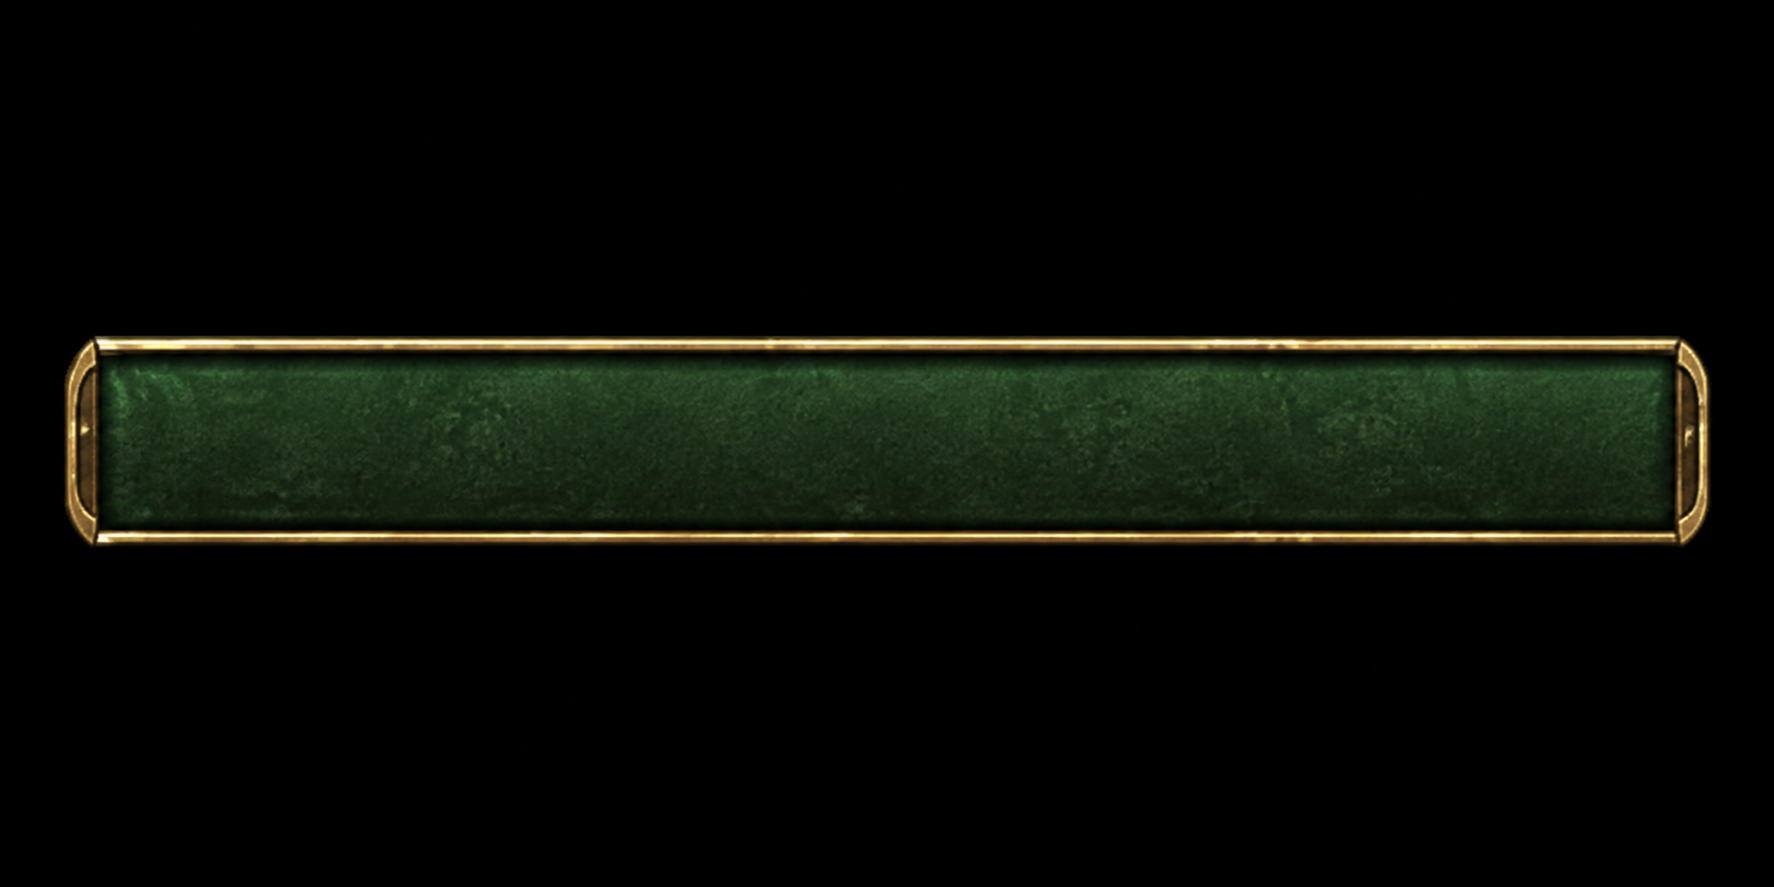
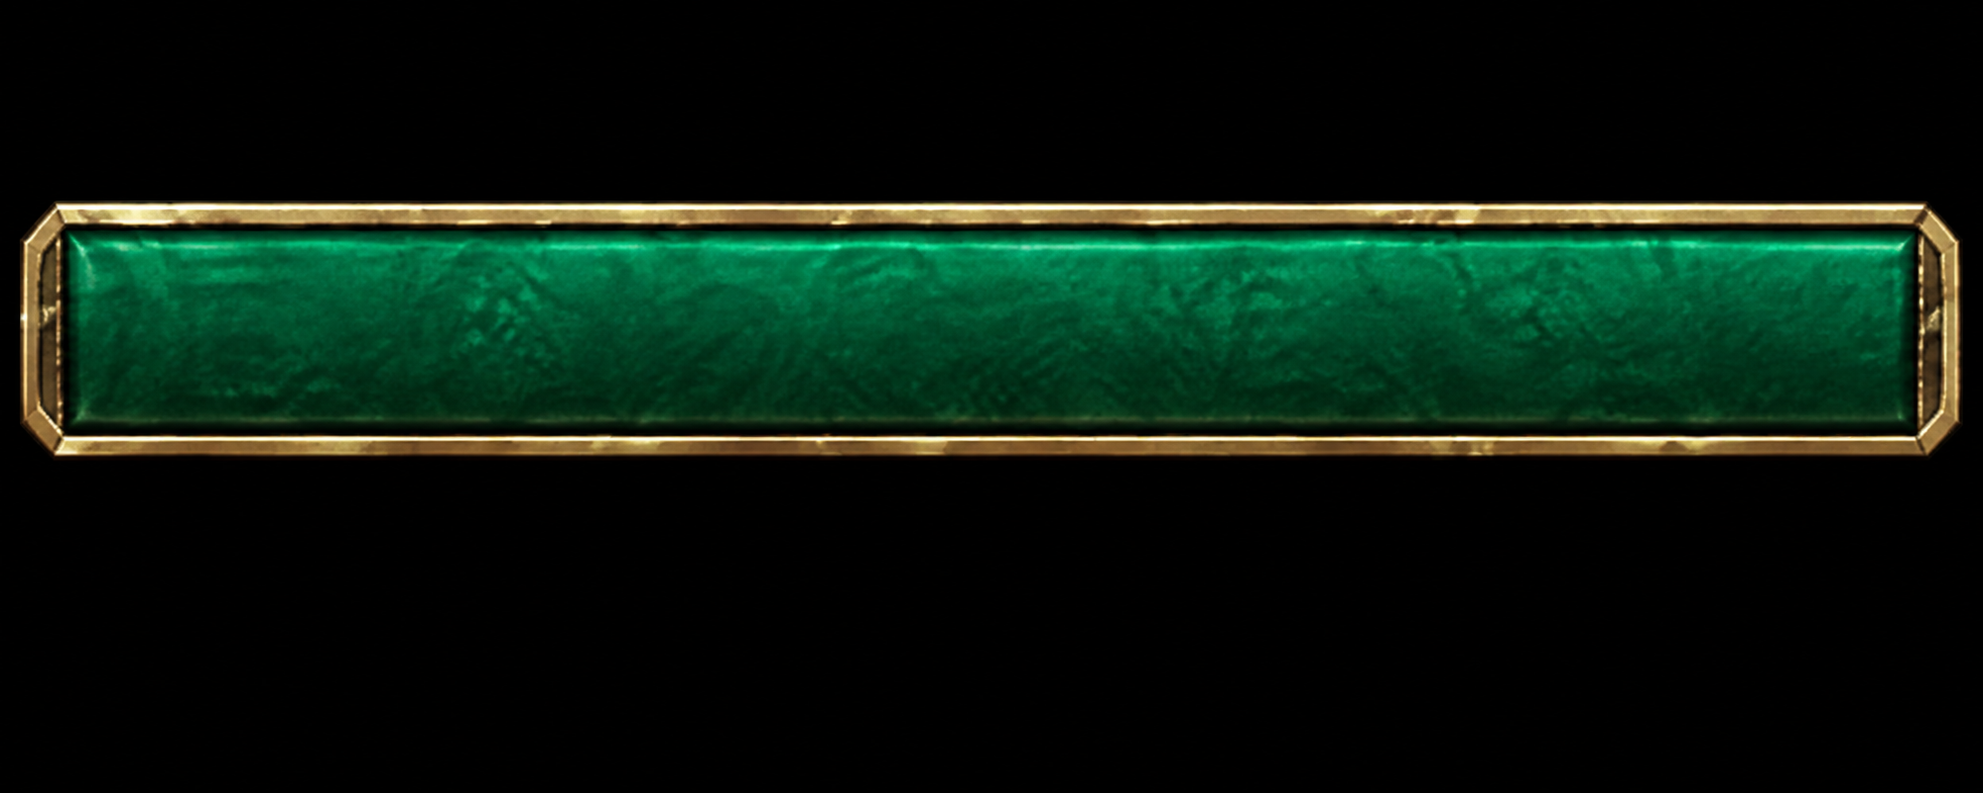
Brighten available Parliament buttons

diff --git a/docs/assets/ireland_parliament_panel/prompts/parliament_step_button_active_prompt.md b/docs/assets/ireland_parliament_panel/prompts/parliament_step_button_active_prompt.md
@@ -1,13 +1,22 @@
 # Ireland Parliament active button prompt
 
-Edit the existing Ireland Parliament step-button asset while preserving its
-long rounded 204x32 silhouette, border placement, transparent outside corners,
-bevels, and empty text-safe centre. Change the enabled appearance from charcoal
-grey to a restrained Irish parliamentary treatment: a deep bottle-green face,
-warm antique-brass rim, and subtle cream highlight in a 1930s government-dossier
-style. It must read as active and clickable without becoming neon. Include no
-text, icon, symbol, watermark, or additional object.
+Use case: precise-object-edit
 
-The generated source is cropped, alpha-cleaned, and resized to the exact runtime
-dimensions before DDS conversion. Engine `buttonstate.lua` remains responsible
-for hover, pressed, and disabled variants.
+Asset type: Hearts of Iron IV scripted-GUI button texture
+
+Input image: the existing Ireland Parliament active-state step button.
+
+Edit the existing asset while preserving its long rounded 204x32 silhouette,
+border placement, transparent outside corners, bevels, and empty text-safe
+centre. Make only the active face visibly brighter and more saturated: rich
+Irish emerald and bottle-green enamel with a subtle centre highlight. Strengthen
+the warm antique-brass inner and outer rim so it remains legible at final size.
+Retain the restrained 1930s government-dossier style. It must read as green,
+active, and clickable without becoming neon. Include no text, icon, symbol,
+watermark, protrusion, or additional object.
+
+The built-in image-generation edit produced the RGB source at 1983x793. Its
+button field is cropped, alpha-cleaned against the black exterior, and resized
+with Lanczos resampling to the exact 204x32 runtime dimensions before DDS
+conversion. Engine `buttonstate.lua` remains responsible for hover, pressed,
+and disabled variants.

diff --git a/docs/assets/ireland_parliament_panel/manifest.md b/docs/assets/ireland_parliament_panel/manifest.md
@@ -32,8 +32,9 @@ Source mode: generated background plus project-owned mechanical derivatives
 
 - Asset name: `parliament_step_button`.
 - Source: generated active-state treatment derived from the existing project-owned
-  action-button silhouette. The active face is bottle green with an antique-brass
-  rim so an enabled control is visually distinct from the engine-darkened disabled
+  action-button silhouette. The active face is saturated emerald and bottle green
+  with a clear antique-brass rim, so an enabled control remains visibly green and
+  clickable after downscaling and is distinct from the engine-darkened disabled
   state.
 - Source PNG: `docs/assets/ireland_parliament_panel/source_png/parliament_step_button_active_source.png`.
 - Processed PNG: `docs/assets/ireland_parliament_panel/processed_png/parliament_step_button_204x32.png`.
